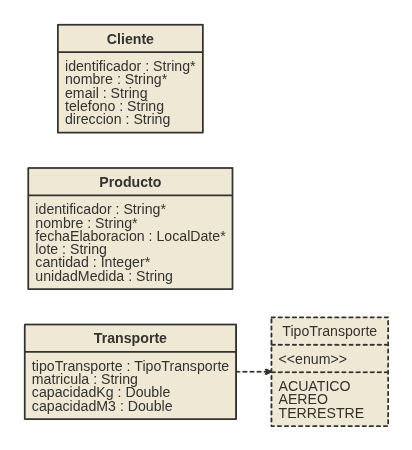
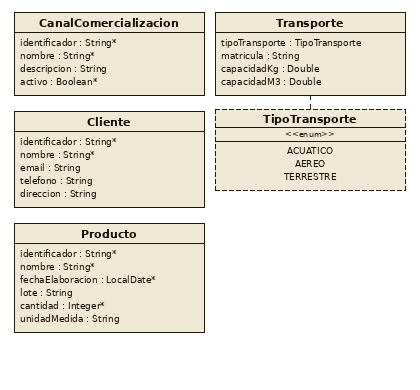
Ajuste Sección 03 - JDL Entidades de catálogo

diff --git a/presentacion/entrega_2/hus.html b/presentacion/entrega_2/hus.html
@@ -826,6 +826,12 @@ mkdir -p e2e/steps e2e/support \
   cantidad         <span class="val">Integer</span>   required min(1)
   unidadMedida     <span class="val">String</span>    maxlength(20)
 }
+<span class="kw">entity</span> CanalComercializacion {
+  identificador <span class="val">String</span> required unique
+  nombre        <span class="val">String</span> required maxlength(100)
+  descripcion   <span class="val">String</span> maxlength(500)
+  activo        <span class="val">Boolean</span> required
+}
 <span class="kw">enum</span> TipoTransporte {
   ACUATICO, AEREO, TERRESTRE
 }
